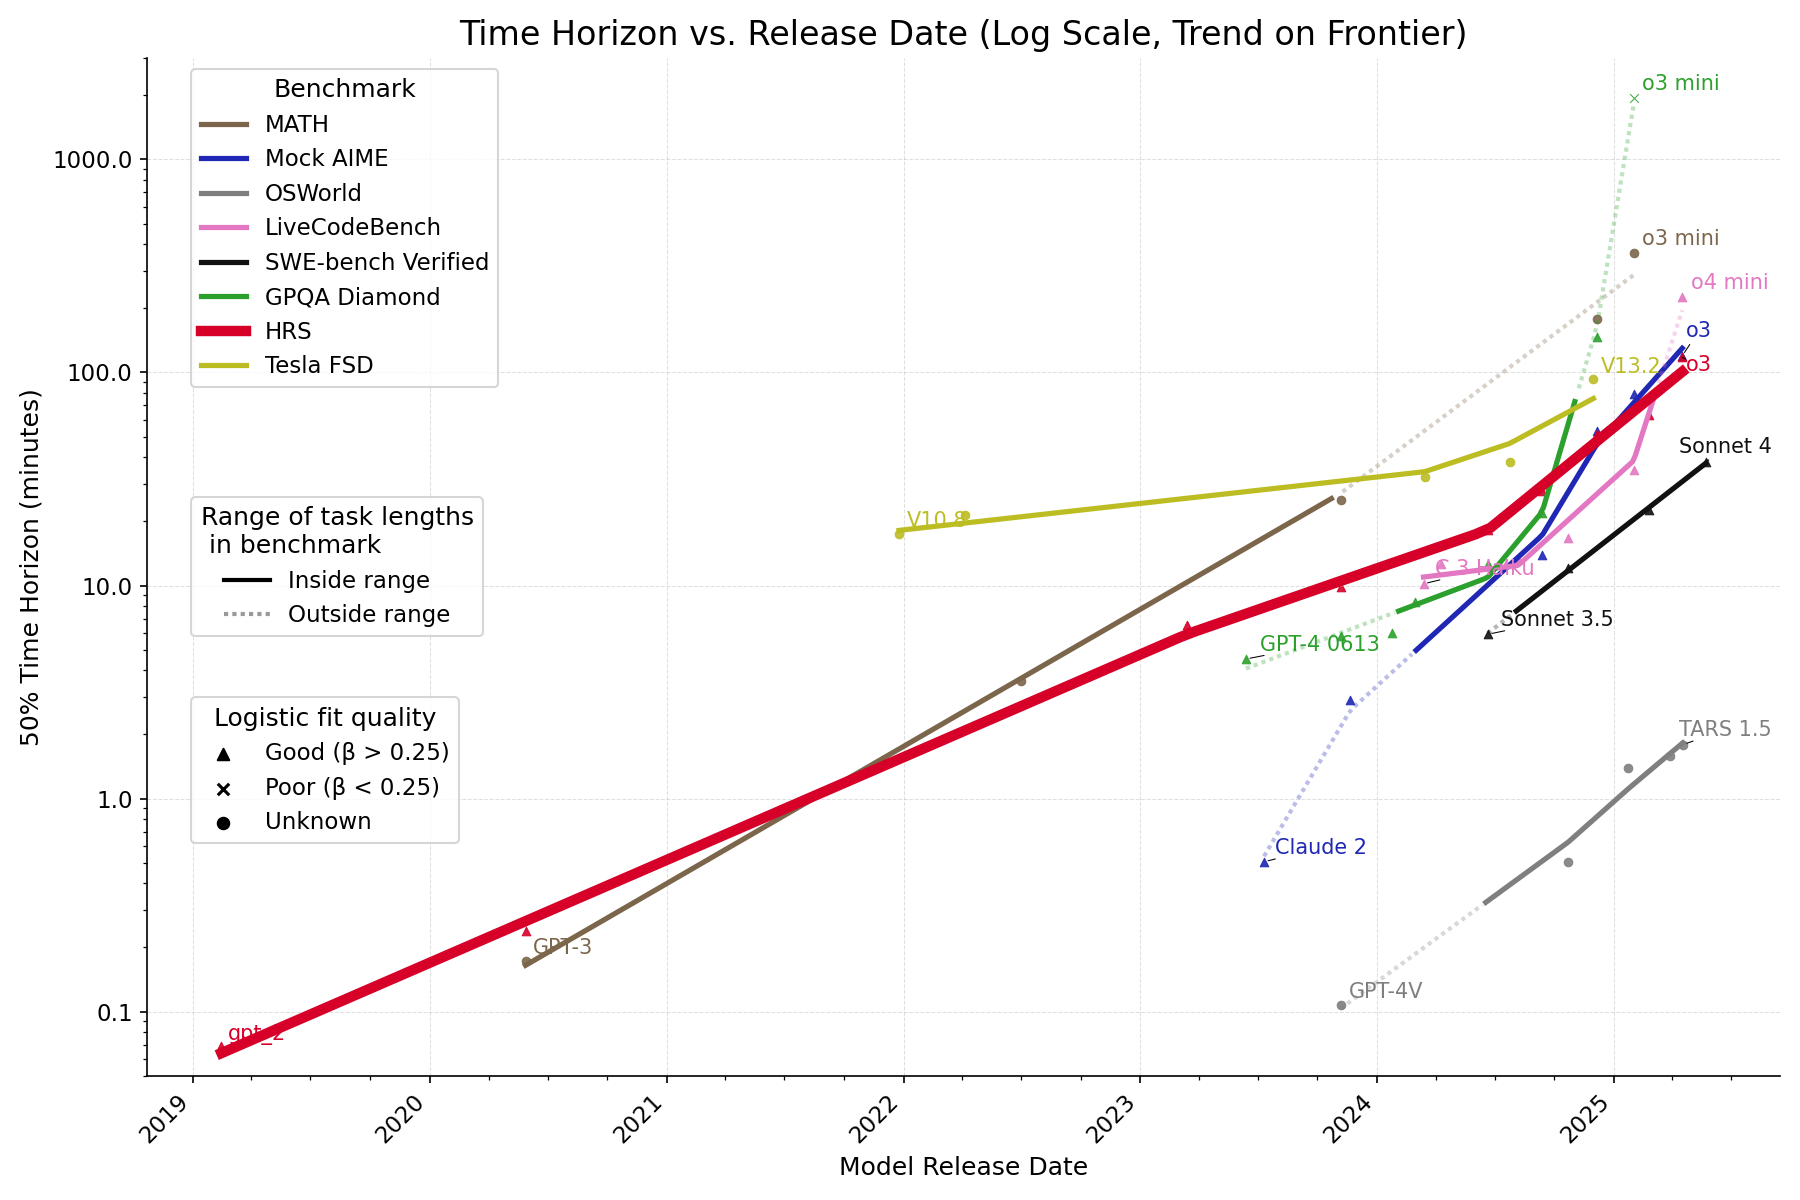
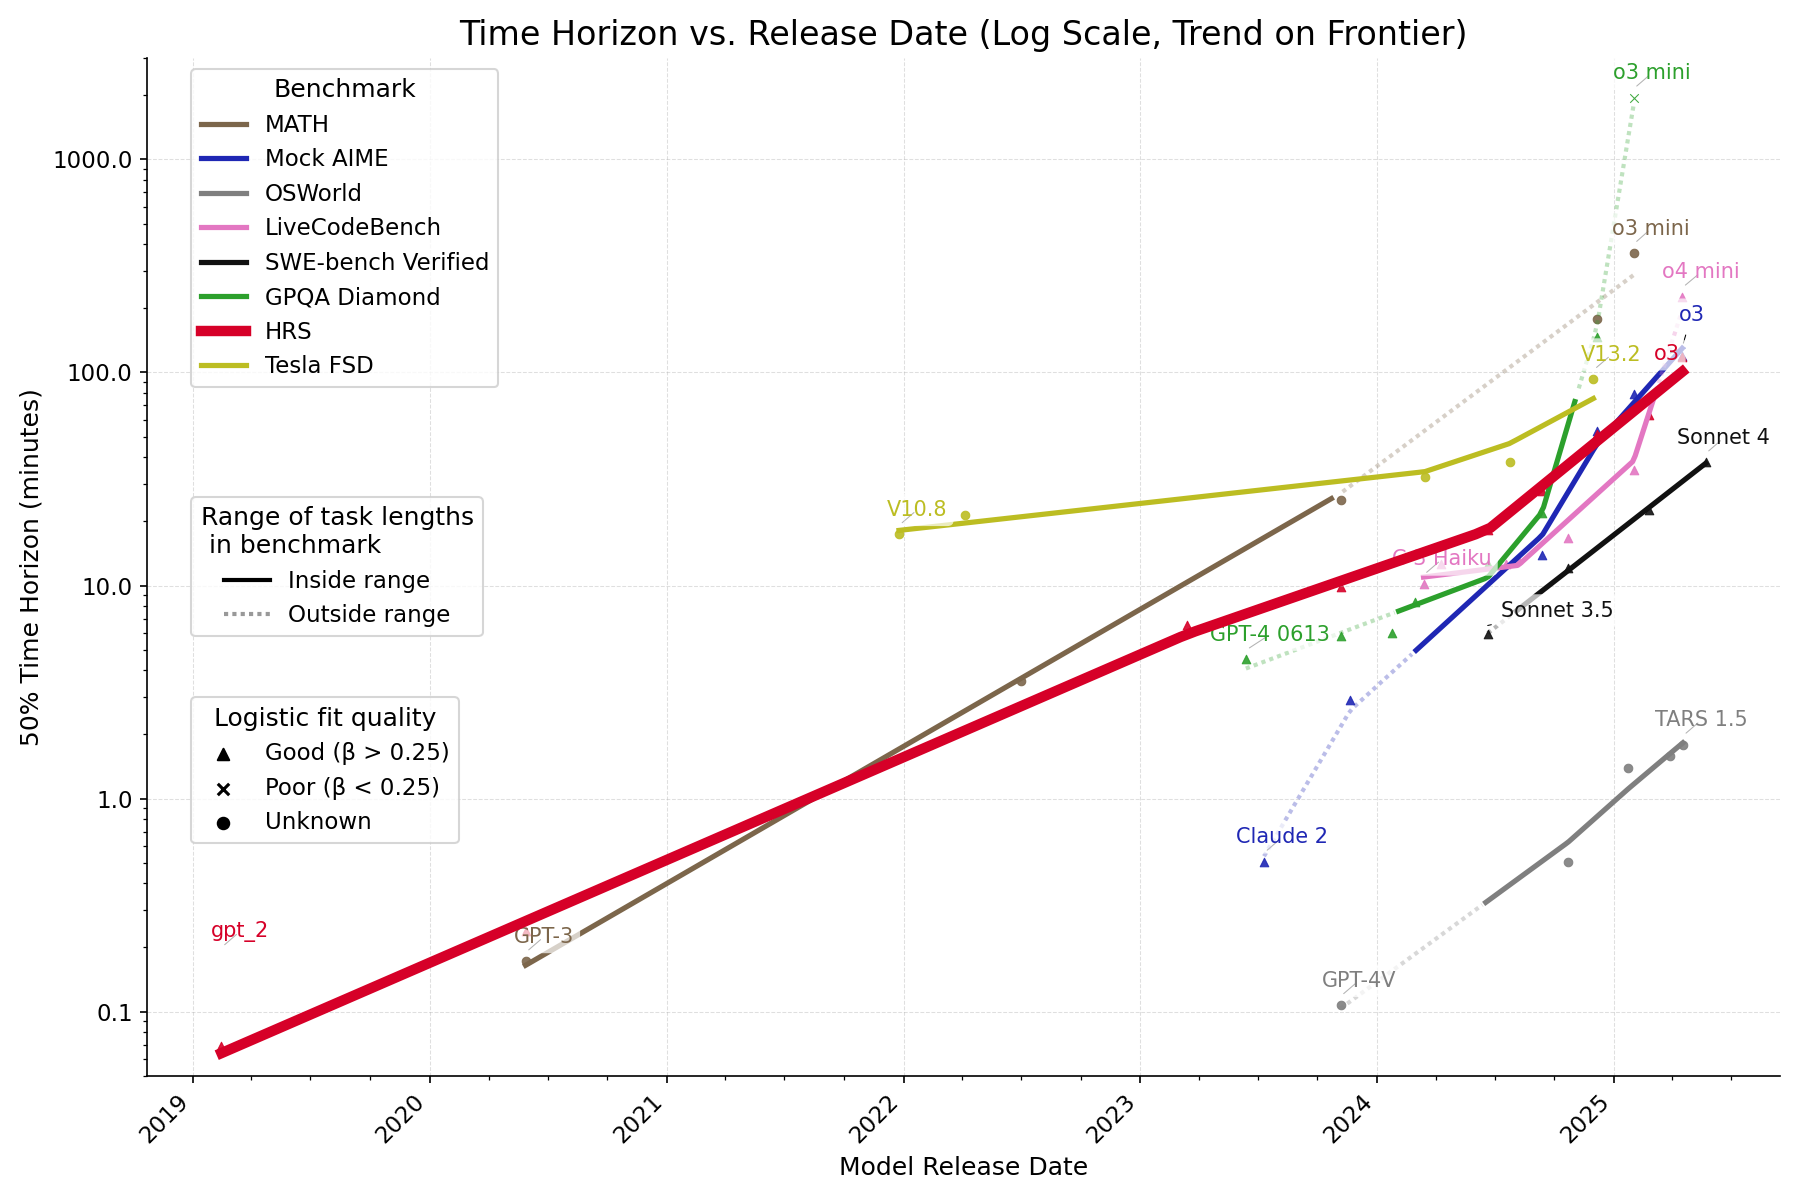
moving doubling text to left corner. make text overlay prettier

diff --git a/plots.py b/plots.py
@@ -139,13 +139,14 @@ def plot_lines_over_time(df, output_file,
         fig._overlay_image_path = 'plots/original_time_horizon_plot.png'
     elif params.subplots:
         # last subplot contains legend
-        nrows = (len(benchmarks) + 1) // 2
-        fig, axs = plt.subplots(figsize=(12, nrows * 4), nrows=nrows, ncols=2, sharex=True, sharey=True)
+        nrows = (len(benchmarks) + 1) // 4
+        fig, axs = plt.subplots(figsize=(12, nrows * 4), nrows=nrows, ncols=4, sharex=True, sharey=True)
         axs = axs.flatten()
     else:
         fig, ax = plt.subplots(figsize=(12, 8))
 
     texts = [] # Initialize list to store text objects for adjustText
+    subplot_texts = {} # Store texts for each subplot separately
 
     if params.hide_benchmarks:
         benchmarks = [bench for bench in benchmarks if bench not in params.hide_benchmarks]
@@ -157,6 +158,7 @@ def plot_lines_over_time(df, output_file,
         if params.subplots:
             ax = axs[benchmarks.index(bench)]
             ax.set_title(benchmark_aliases[bench], fontsize=10)
+            subplot_texts[bench] = []  # Initialize text list for this subplot
 
         bench_data = plot_df[plot_df['benchmark'] == bench]
         color = benchmark_colors[bench]
@@ -248,8 +250,9 @@ def plot_lines_over_time(df, output_file,
             
             if params.show_doubling_rate:
                 rate_text = f"{doubling_rate:.1f} dbl./yr"
-                ax.text(mid_x, mid_y * 1.1, rate_text, fontsize=10, color=color, 
-                        ha='center', va='bottom', bbox=dict(facecolor='white', alpha=0.7, pad=2))
+                # Place text in top left corner of each subplot
+                ax.text(0.02, 0.99, rate_text, fontsize=10, color=color, 
+                        ha='left', va='top', transform=ax.transAxes)
 
             x_line_date = np.array(mdates.num2date(x_line_num))
             y_line = 2.0**y_line_log
@@ -279,10 +282,25 @@ def plot_lines_over_time(df, output_file,
                         model_name = plotting_aliases[model_name]
                     else:
                         model_name = point['model']
-                    texts.append(ax.text(point['release_date'],
-                                         point['horizon_minutes'],
-                                         model_name,
-                                         fontsize=10, color=color))
+                    if point['horizon_minutes'] < 0.1:  
+                        y_offset = 0.20  # fixed position
+                        va = 'bottom'
+                    else:
+                        y_offset = point['horizon_minutes'] * 1.1  # 10% above the point
+                        va = 'bottom'
+                    
+                    text_obj = ax.text(point['release_date'],
+                                      y_offset,
+                                      model_name,
+                                      fontsize=8 if params.subplots else 10, 
+                                      color=color,
+                                      ha='center',
+                                      va=va,
+                                      bbox=dict(boxstyle='round,pad=0.3', facecolor='white', alpha=0.7, edgecolor='none'))
+                    if params.subplots:
+                        subplot_texts[bench].append(text_obj)
+                    else:
+                        texts.append(text_obj)
 
                 text_label(first_frontier_point)
                 text_label(last_frontier_point)
@@ -357,6 +375,19 @@ def plot_lines_over_time(df, output_file,
         add_watermark(ax)
 
     if params.subplots:
+        # Apply adjustText to each subplot individually
+        for bench in benchmarks:
+            if bench in subplot_texts and subplot_texts[bench]:
+                ax = axs[benchmarks.index(bench)]
+                adjustText.adjust_text(subplot_texts[bench], ax=ax,
+                                     force_text=(0.3, 0.3),
+                                     force_points=(0.2, 0.2),
+                                     expand_text=(1.2, 1.5),
+                                     expand_points=(1.2, 1.2),
+                                     avoid_self=True,
+                                     avoid_points=True,
+                                     avoid_text=True)
+        
         for i in range(len(benchmarks), len(axs)):
             axs[i].set_axis_off()
 
